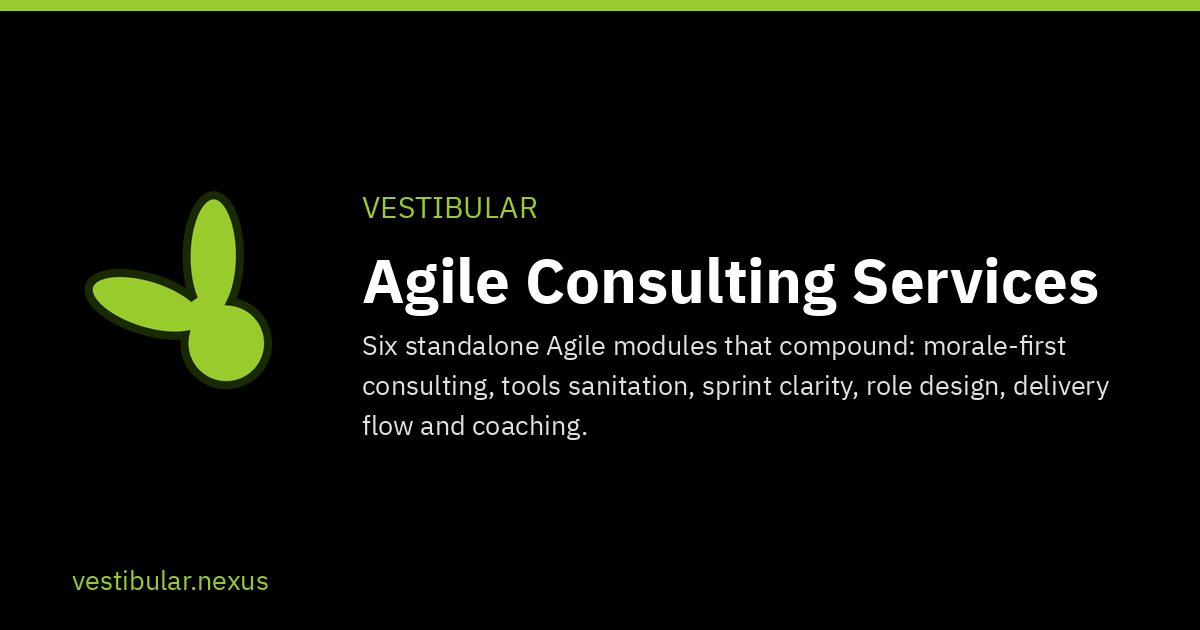
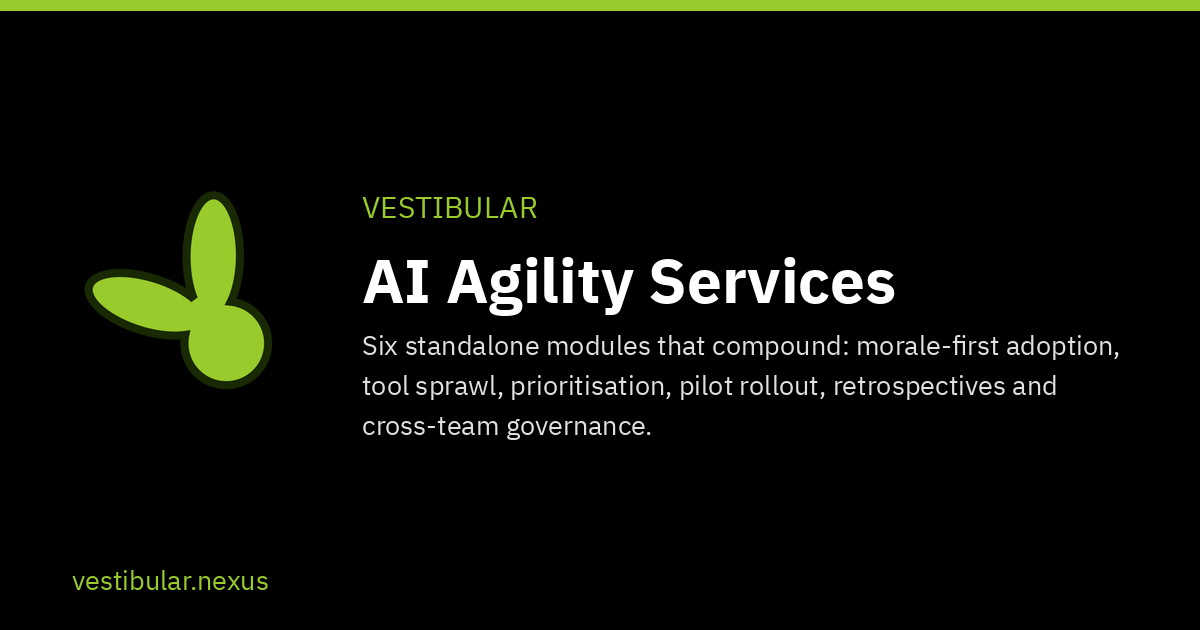
copy(services): finish the AI reframe — last two services, CTA, title
Completes the page. The four retitles landed in the previous commit; this
rewrites the two that could not simply be renamed, and the surrounding
copy that still said Agile.

  Agile Tools Sanitation   -> AI Tool Sprawl Audit
  Modular Agile Enablement -> Pilot-to-Practice Rollout

Neither was a retitle, which is why they were held back. Tools Sanitation
was Jira hygiene; the AI analogue is pilots, subscriptions and copilots
accumulating with no owner, no cost visibility and no map of what data
they touch. Its old deliverable also cited a "maturity assessment
framework", a reference that had to go regardless once the ladder stopped
being a public catalogue.

Pilot-to-Practice Rollout is deliberately scoped AWAY from the existing
Adoption & Capability Uplift engagement. Adoption teaches people to use
the thing; this sequences how a practice that worked on one team spreads
without stalling, and what keeps it alive after the pilot team moves on.
If that distinction ever stops being legible on the page, merge them
rather than running two services against one buyer problem.

Also:
  - CTA "Min-max your Agile stack" -> "Min-max your AI stack". It was the
    last place the page said Agile outright.
  - Page title "Agile Consulting Services" -> "AI Agility Services", and
    the meta description rewritten to name the six as they now read.
    Both in content/pages.json, which is the SSOT for the head region AND
    for the root share card, so the card regenerated with them.
[…]

diff --git a/services.html b/services.html
@@ -4,7 +4,7 @@
 <!-- GENERATED:page_head START · source content/practices.json · regen: node tools/render_content.mjs · DO NOT EDIT BELOW -->
   <meta charset="utf-8" />
   <meta name="viewport" content="width=device-width,initial-scale=1" />
-  <meta name="description" content="Six standalone Agile modules that compound: morale-first consulting, tools sanitation, sprint clarity, role design, delivery flow and coaching." />
+  <meta name="description" content="Six standalone modules that compound: morale-first adoption, tool sprawl, prioritisation, pilot rollout, retrospectives and cross-team governance." />
   <meta name="theme-color" content="#000000" />
 
   <!-- Favicons -->
@@ -13,7 +13,7 @@
   <link rel="icon" type="image/png" sizes="16x16" href="assets/favicon-16x16.png">
   <link rel="manifest" href="assets/site.webmanifest">
 
-  <title>Agile Consulting Services – Vestibular</title>
+  <title>AI Agility Services – Vestibular</title>
   <link rel="canonical" href="https://vestibular.nexus/services" />
 
   <!-- Open Graph / Twitter. Cards are 1200x630 PNGs generated from this
@@ -22,15 +22,15 @@
   <meta property="og:type" content="website" />
   <meta property="og:site_name" content="Vestibular" />
   <meta property="og:url" content="https://vestibular.nexus/services" />
-  <meta property="og:title" content="Agile Consulting Services – Vestibular" />
-  <meta property="og:description" content="Six standalone Agile modules that compound: morale-first consulting, tools sanitation, sprint clarity, role design, delivery flow and coaching." />
+  <meta property="og:title" content="AI Agility Services – Vestibular" />
+  <meta property="og:description" content="Six standalone modules that compound: morale-first adoption, tool sprawl, prioritisation, pilot rollout, retrospectives and cross-team governance." />
   <meta property="og:image" content="https://vestibular.nexus/assets/og/services.png" />
   <meta property="og:image:width" content="1200" />
   <meta property="og:image:height" content="630" />
-  <meta property="og:image:alt" content="Agile Consulting Services – Vestibular" />
+  <meta property="og:image:alt" content="AI Agility Services – Vestibular" />
   <meta name="twitter:card" content="summary_large_image" />
-  <meta name="twitter:title" content="Agile Consulting Services – Vestibular" />
-  <meta name="twitter:description" content="Six standalone Agile modules that compound: morale-first consulting, tools sanitation, sprint clarity, role design, delivery flow and coaching." />
+  <meta name="twitter:title" content="AI Agility Services – Vestibular" />
+  <meta name="twitter:description" content="Six standalone modules that compound: morale-first adoption, tool sprawl, prioritisation, pilot rollout, retrospectives and cross-team governance." />
   <meta name="twitter:image" content="https://vestibular.nexus/assets/og/services.png" />
 
   <link rel="preconnect" href="https://fonts.googleapis.com">
@@ -127,12 +127,12 @@
       <article>
         <svg class="service-icon" width="48" height="48" viewBox="0 0 48 48" fill="none" xmlns="http://www.w3.org/2000/svg" aria-hidden="true"><rect x="6" y="8" width="36" height="32" rx="3" stroke="currentColor" stroke-width="2.5"/><line x1="6" y1="18" x2="42" y2="18" stroke="currentColor" stroke-width="2.5"/><line x1="22" y1="18" x2="22" y2="40" stroke="currentColor" stroke-width="2"/><polyline points="11,27 14,31 20,23" stroke="currentColor" stroke-width="2.5" stroke-linecap="round" stroke-linejoin="round"/><line x1="28" y1="26" x2="36" y2="26" stroke="currentColor" stroke-width="2" stroke-linecap="round" opacity="0.5"/><line x1="28" y1="31" x2="34" y2="31" stroke="currentColor" stroke-width="2" stroke-linecap="round" opacity="0.5"/></svg>
         <div>
-        <h3>Agile Tools Sanitation</h3>
+        <h3>AI Tool Sprawl Audit</h3>
         <ul>
-          <li>Declutter Jira boards, workflows, and dashboards</li>
-          <li>Apply a maturity model to restore clarity and reduce cognitive load</li>
-          <li>Establish throughput, cycle time, and morale metrics</li>
-          <li><strong>Deliverable:</strong> Tool hygiene audit, sanitation playbook, maturity assessment framework</li>
+          <li>Inventory the pilots, subscriptions, and copilots nobody currently owns</li>
+          <li>Consolidate overlapping tools to restore clarity and reduce cognitive load</li>
+          <li>Establish what each tool costs, who owns it, and what data it touches</li>
+          <li><strong>Deliverable:</strong> Tool inventory, ownership map, consolidation plan</li>
         </ul>
         </div>
       </article>
@@ -140,12 +140,12 @@
       <article>
         <svg class="service-icon" width="48" height="48" viewBox="0 0 48 48" fill="none" xmlns="http://www.w3.org/2000/svg" aria-hidden="true"><polygon points="24,4 30,7.5 30,14.5 24,18 18,14.5 18,7.5" stroke="currentColor" stroke-width="2"/><polygon points="10,28 16,31.5 16,38.5 10,42 4,38.5 4,31.5" stroke="currentColor" stroke-width="2"/><polygon points="38,28 44,31.5 44,38.5 38,42 32,38.5 32,31.5" stroke="currentColor" stroke-width="2"/><line x1="24" y1="18" x2="10" y2="28" stroke="currentColor" stroke-width="1.5" stroke-dasharray="3,2"/><line x1="24" y1="18" x2="38" y2="28" stroke="currentColor" stroke-width="1.5" stroke-dasharray="3,2"/></svg>
         <div>
-        <h3>Modular Agile Enablement</h3>
+        <h3>Pilot&#x2011;to&#x2011;Practice Rollout</h3>
         <ul>
-          <li>Refine routine, cadence, and practice for meaningful Agile processes</li>
-          <li>Pilot with one team, then scale by replicating successful practices</li>
-          <li>Roll out independent, interchangeable components across tools, processes, and product</li>
-          <li><strong>Deliverable:</strong> Team‑specific enablement plan, coaching cadence framework</li>
+          <li>Prove the practice with one team, then replicate what actually worked</li>
+          <li>Roll out in independent modules, so a stall in one does not hold up the rest</li>
+          <li>Define the cadence that keeps a practice alive after the pilot team moves on</li>
+          <li><strong>Deliverable:</strong> Team&#x2011;specific rollout plan, coaching cadence framework</li>
         </ul>
         </div>
       </article>
@@ -192,7 +192,7 @@
 
     <!-- CTA Repeat -->
     <section class="cta-repeat">
-      <h2>Min‑max your Agile stack. Less is more.</h2>
+      <h2>Min&#x2011;max your AI stack. Less is more.</h2>
       <div class="cta-buttons">
         <a href="contact.html" class="btn">Book a Free Consult</a>
       </div>
